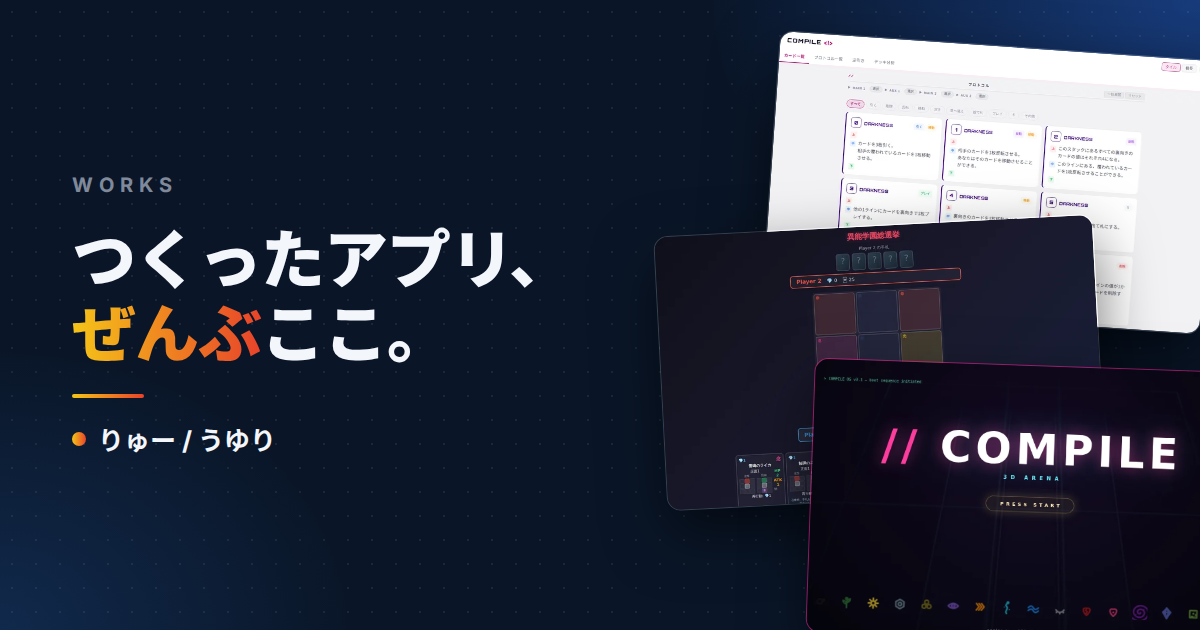
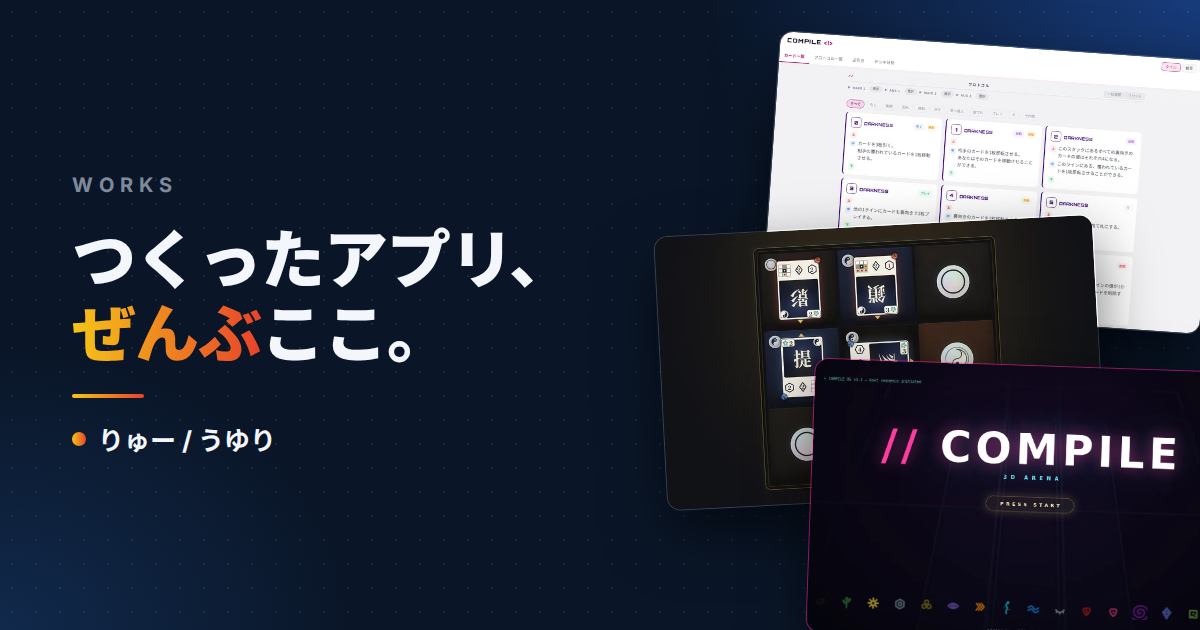
Merge 異能学園総選挙 into 陰陽符陣（仮）
異能学園総選挙 was the earlier version of the same game, so the
original games section now shows only 陰陽符陣（仮）. The OGP image
swaps its screenshot for the 陰陽符陣 board.

Claude-Session: https://claude.ai/code/session_01AvbpAR6hZ1Wd4PJAayMkNa

Changed region(s): [[0.6167, 0.3317, 0.925, 0.6333], [0.5858, 0.6635, 0.6783, 0.8143]]

diff --git a/index.html b/index.html
@@ -772,17 +772,6 @@
         repo: 'https://github.com/princetottino10-bit/eoj-reboot',
       },
       {
-        group: 'original',
-        status: 'dev',
-        title: '異能学園総選挙',
-        ja: 'いのうがくえんそうせんきょ',
-        desc: '異能を持つ高校生たちが「票」を奪い合う、2 人用の対戦カードゲーム。ブラウザでテストプレイできます。',
-        tags: ['オリジナル', '2 人対戦', 'カードゲーム'],
-        url: 'https://princetottino10-bit.github.io/eoj-reboot/',
-        img: 'img/inou.webp',
-        repo: 'https://github.com/princetottino10-bit/eoj-reboot',
-      },
-      {
         group: 'tools',
         badge: 'Windows',
         title: 'GT7 テレメトリ',
